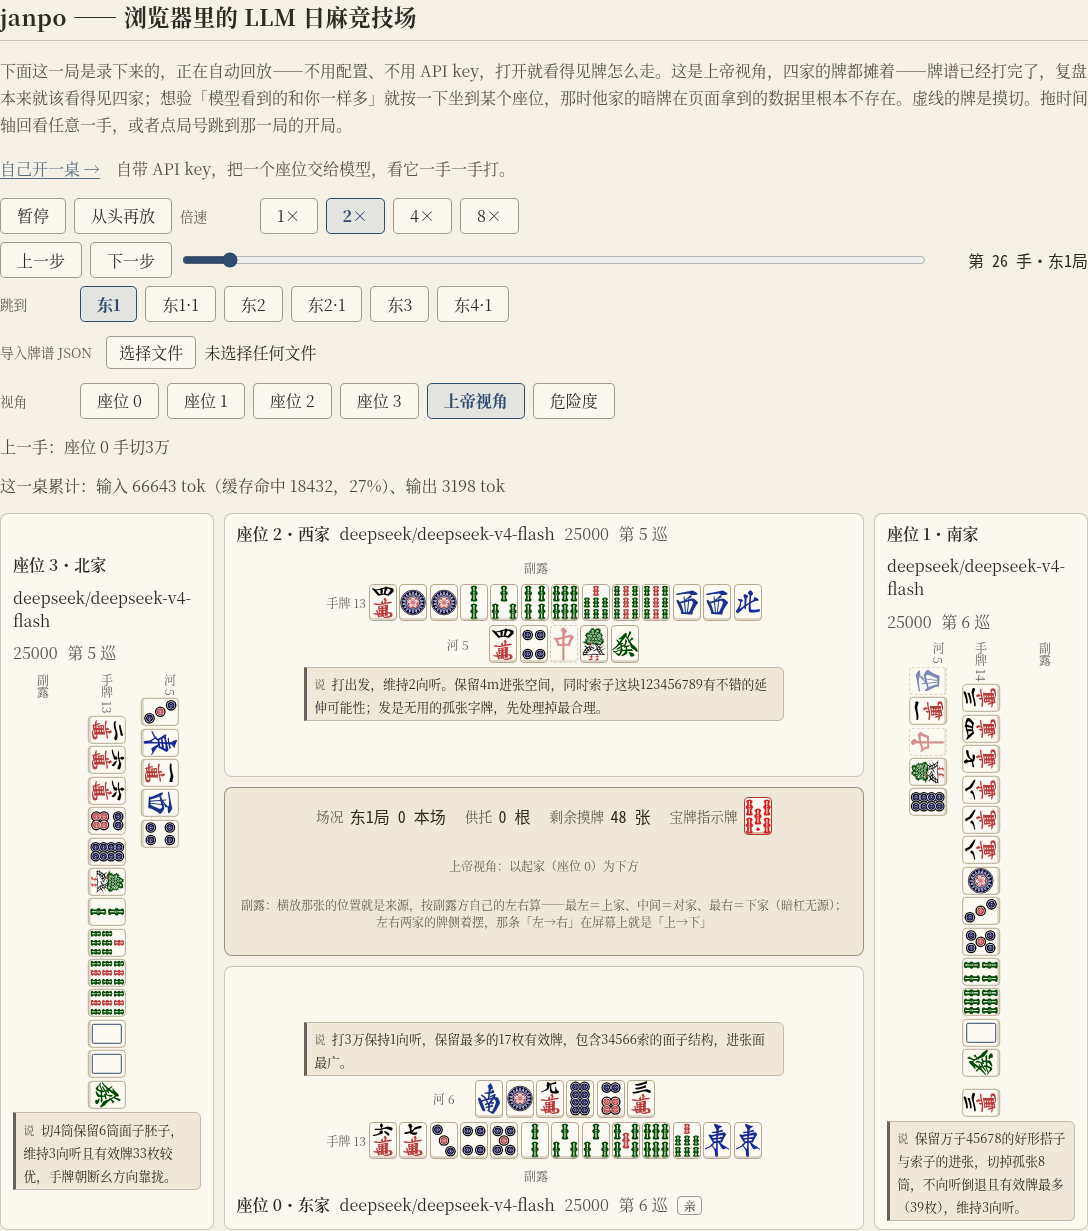
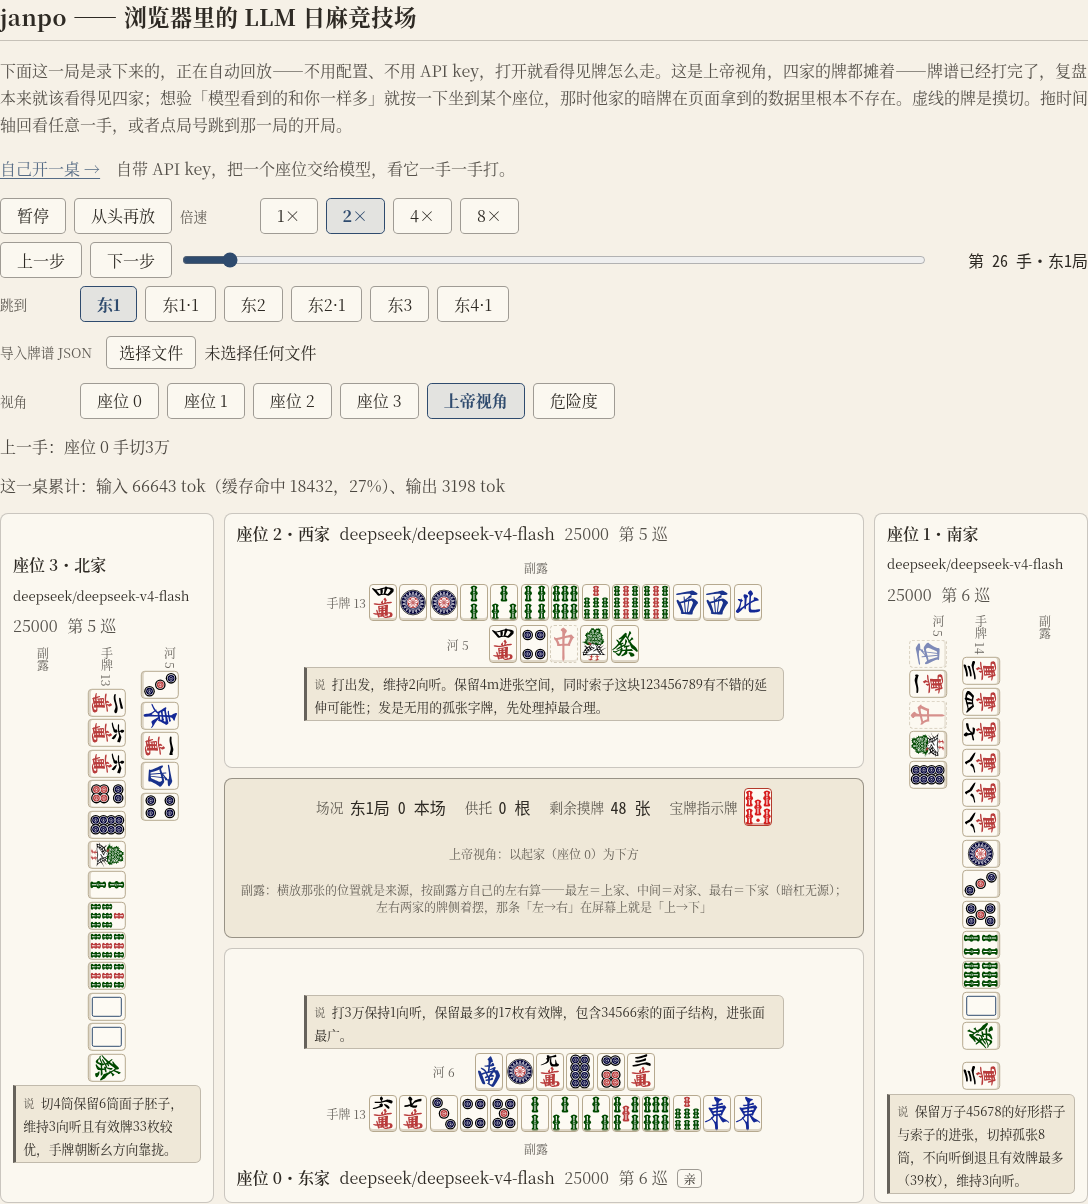
style(web): 左右两家名牌字号小一档——188px 那两列里一行放得下（票 82 自查报的换行）

diff --git a/web/src/styles.css b/web/src/styles.css
@@ -1277,4 +1277,13 @@ input[type="range"] {
   .seat[data-seat-position="shimocha"] .naki-slot {
     flex-direction: row-reverse;
   }
+
+  /* 左右两家那两列只有约 188 px，`deepseek/deepseek-v4-flash` 会在**字中间**断成
+     「deepseek/deepseek-v4-」+「flash」——难看得像坏了（票 82 自查时报的）。
+     字号小一档就一行放得下；`data-player` 与 textContent 一字不动，闸门读的是它们。
+     再长的名字仍会折行，但那是名字本身的问题，不是这一格的。 */
+  .seat[data-seat-position="kamicha"] .seat-player,
+  .seat[data-seat-position="shimocha"] .seat-player {
+    font-size: 0.82em;
+  }
 }

diff --git a/.scratch/llm-riichi-arena/run/M2-SCHEDULE.md b/.scratch/llm-riichi-arena/run/M2-SCHEDULE.md
@@ -134,7 +134,7 @@ M1 暴露的三件事逐条闭合：
 | 85 | **done**（oqktlunn） | — | 导入半场牌谱时末帧会多出一张推断牌山造的假牌（票 79 §5 撞出来的机制，产品侧也踩得到） |
 | 81 | **done**（zvvkqyxk） | — | 视角成为信息闸门（气泡与状态线按视角掩蔽）+ 气泡只放一句话；**含术语表第八次授权** |
 | 86 | **派工中**（ws-b） | — | 点开气泡跳走了、关掉不跳回来（主人试玩报的；票 76 的动作只做了一半）|
-| 82 | **派工中**（ws-a） | 81, 83 | 左右两家的牌竖着摆（真麻将布局）+ 名牌带档案/档位；票 44 与 76 的坐标断言要重校 |
+| 82 | **done**（pzyyvlkt） | 81, 83 | 左右两家的牌竖着摆（真麻将布局）+ 名牌带档案/档位；票 44 与 76 的坐标断言要重校 |
 | 83 | **done**（pzopotwy） | — | **页面重排**：操作控件贴到牌桌（第⑦条）+ 配桌表单让出中心、四席一眼看全（第⑥条） |
 | 80 | **done**（oolxzqnk，待主人看图） | 74, 78 | 纸面牌谱风静态打磨：CC0 牌面资产（赤五/牌背）+ 暖纸/朱红/靛青配色；主人加的（W5 期间立票） |
 
@@ -149,7 +149,7 @@ M1 暴露的三件事逐条闭合：
 | W5 | 74 **已并**（引擎零改动核过；并发 flash 档只省 ~7%，机制真伪靠假端点 708/1400ms 判）∥ 78 **已并**（三处冲突全是「两边都要」型；闸门二十道/十四趟） | 并发问话（MVU 与 Agent 状态） vs 导入与分享（地址与文件入口） |
 | W6 | 80 **已并**（赤牌断言改硬了；dist +0.78MB / 首屏 +29ms 判可收；白板与牌背两问留主人） | 独占：美化横切所有视图文件，且要动几何/颜色断言，谁都别与它并行 |
 | W8 | 83 **已并**（单步→牌桌 1136→86 px；83-6 挪进 82）∥ 85 **已并**（形态①，Web 层零改动；票面那条触发路径被量翻，见 85-5）∥ 81 **已并**（reveals × unlocked 两根轴；verify-home ⑦ 10→16 条） | 气泡与状态线（`TableState`/`AgentLine`/`ThinkingBubble`） vs 配桌面板（`TablePanel`）——`styles.css` 两处远隔 |
-| W9 | **已派** 82（ws-a）∥ 86（ws-b） | 独占：它重排牌桌几何，票 44 八项 + 票 76 矩形不相交都要重校 |
+| W9 | 82 **已并**（真方桌；名牌换行我顺手修了）∥ 86（ws-b）在跑 | 独占：它重排牌桌几何，票 44 八项 + 票 76 矩形不相交都要重校 |
 | W10 | → M3 | 真人坐席：动作输入 UI（可见性规则已由票 81 打下地基） |
 | W7 | **已派** 79（ws-a） | 收官：真 key 跑真局换资产 + 定妆照（拍在美化之后）；不改代码 |
 

diff --git a/.scratch/llm-riichi-arena/run/DECISIONS.md b/.scratch/llm-riichi-arena/run/DECISIONS.md
@@ -5822,3 +5822,24 @@ M3 真人坐席落地时，那一席自然是 `Seated` + `unlocked` 生效，这
 改法是读真坐标：那一段空必须严格大于手牌里其余相邻两张之间的空。同一条教训还带出一条防空转：
 竖排那两家的牌面只有上帝视角摆得出来，因此闸门另走最多 5 手**等到左右两家真的轮到刚摸那张**，
 轮不到就报「在空转」。
+
+**82 并入（调度器），它留的三条一并裁：**
+
+1. **名牌换行（它自己报的「最不满意」）：我修了。** 左右两列只有 188 px，
+   `deepseek/deepseek-v4-flash` 会在**字中间**断成「deepseek/deepseek-v4-」+「flash」。
+   先试了「拆成两段让断点落在 `/`」——**没用**：`overflow-wrap: anywhere` 会照样在词中间断，
+   span 边界不构成优先断点。改成**侧面两家名牌字号 0.82em**，一行放得下，
+   `data-player` 与 textContent 一字未动（闸门读的是它们）。CI 全绿、截图复核过。
+2. **「一屏只到约 12 巡」：收下，不再追。** 走 32 手 912 → 723 px（票 83 挂的那 150 px 兑现了），
+   终盘河到 13 张之后仍要滚。**河变长本来就占地方**，为终盘再压一屏会动到牌面尺寸，
+   那是拿可读性换滚动条，不划算。
+3. **左右两家「不镜像」：保持。** 真桌上左右两家的牌是相向的，镜像更写实；
+   但这是**复盘工具**不是模拟器，两侧同向读起来一致。**要改是一行的事**，主人若要写实随时说。
+4. **「名牌」不进 `CONTEXT.md`。** 照 72-1 与票 73 立的判据（引擎、CLI、牌谱里有没有它）：
+   名牌是**渲染既有术语的一个 UI 部件**——回放侧渲染牌谱的 `names`，Live 侧渲染
+   `ModelProfile` 的名字 + `ScaffoldTier`。它自己不是概念。
+
+**82 值得记的一条做法**：改几何时它**没有放宽一条方位断言**——五视角那四条不等式判据一字未改，
+变的只是坐标值（kamicha 中心 (268,1298)→(203,1169)）。
+「刚摸那张有间隔」从读 `margin-left: 9.6px` 改成读**画出来的间距**（12 px vs 其余 2.4 px）——
+**从读实现改成读现象**，这比原来的写法更难糊弄。十二次反向自证全部 EXIT=1。
